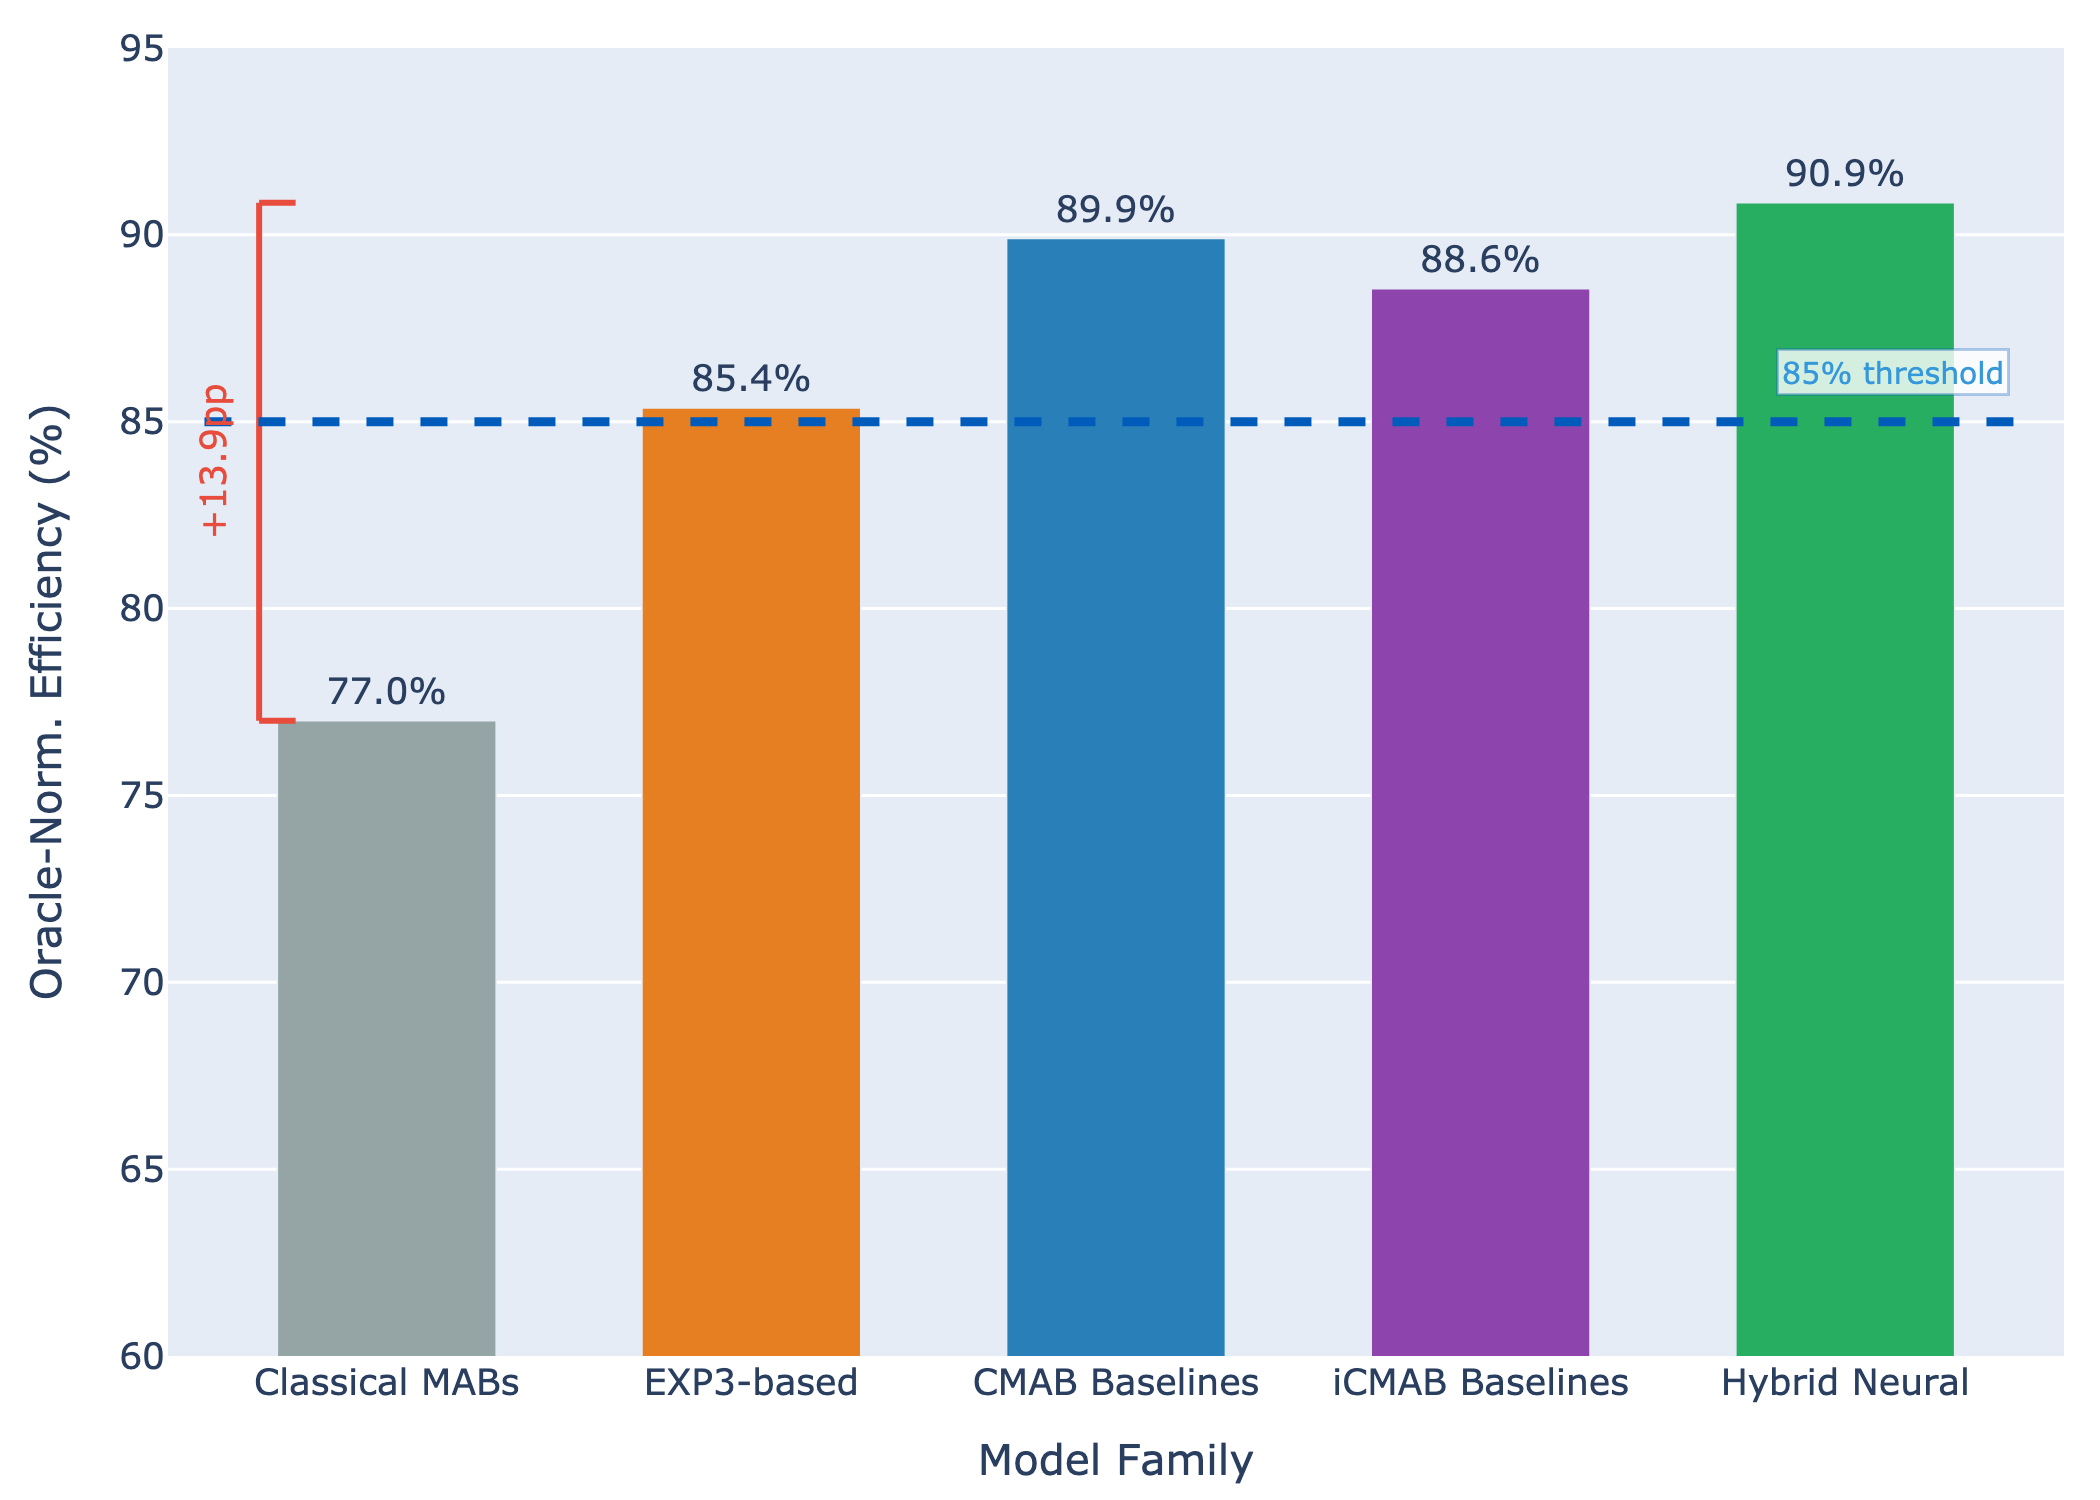
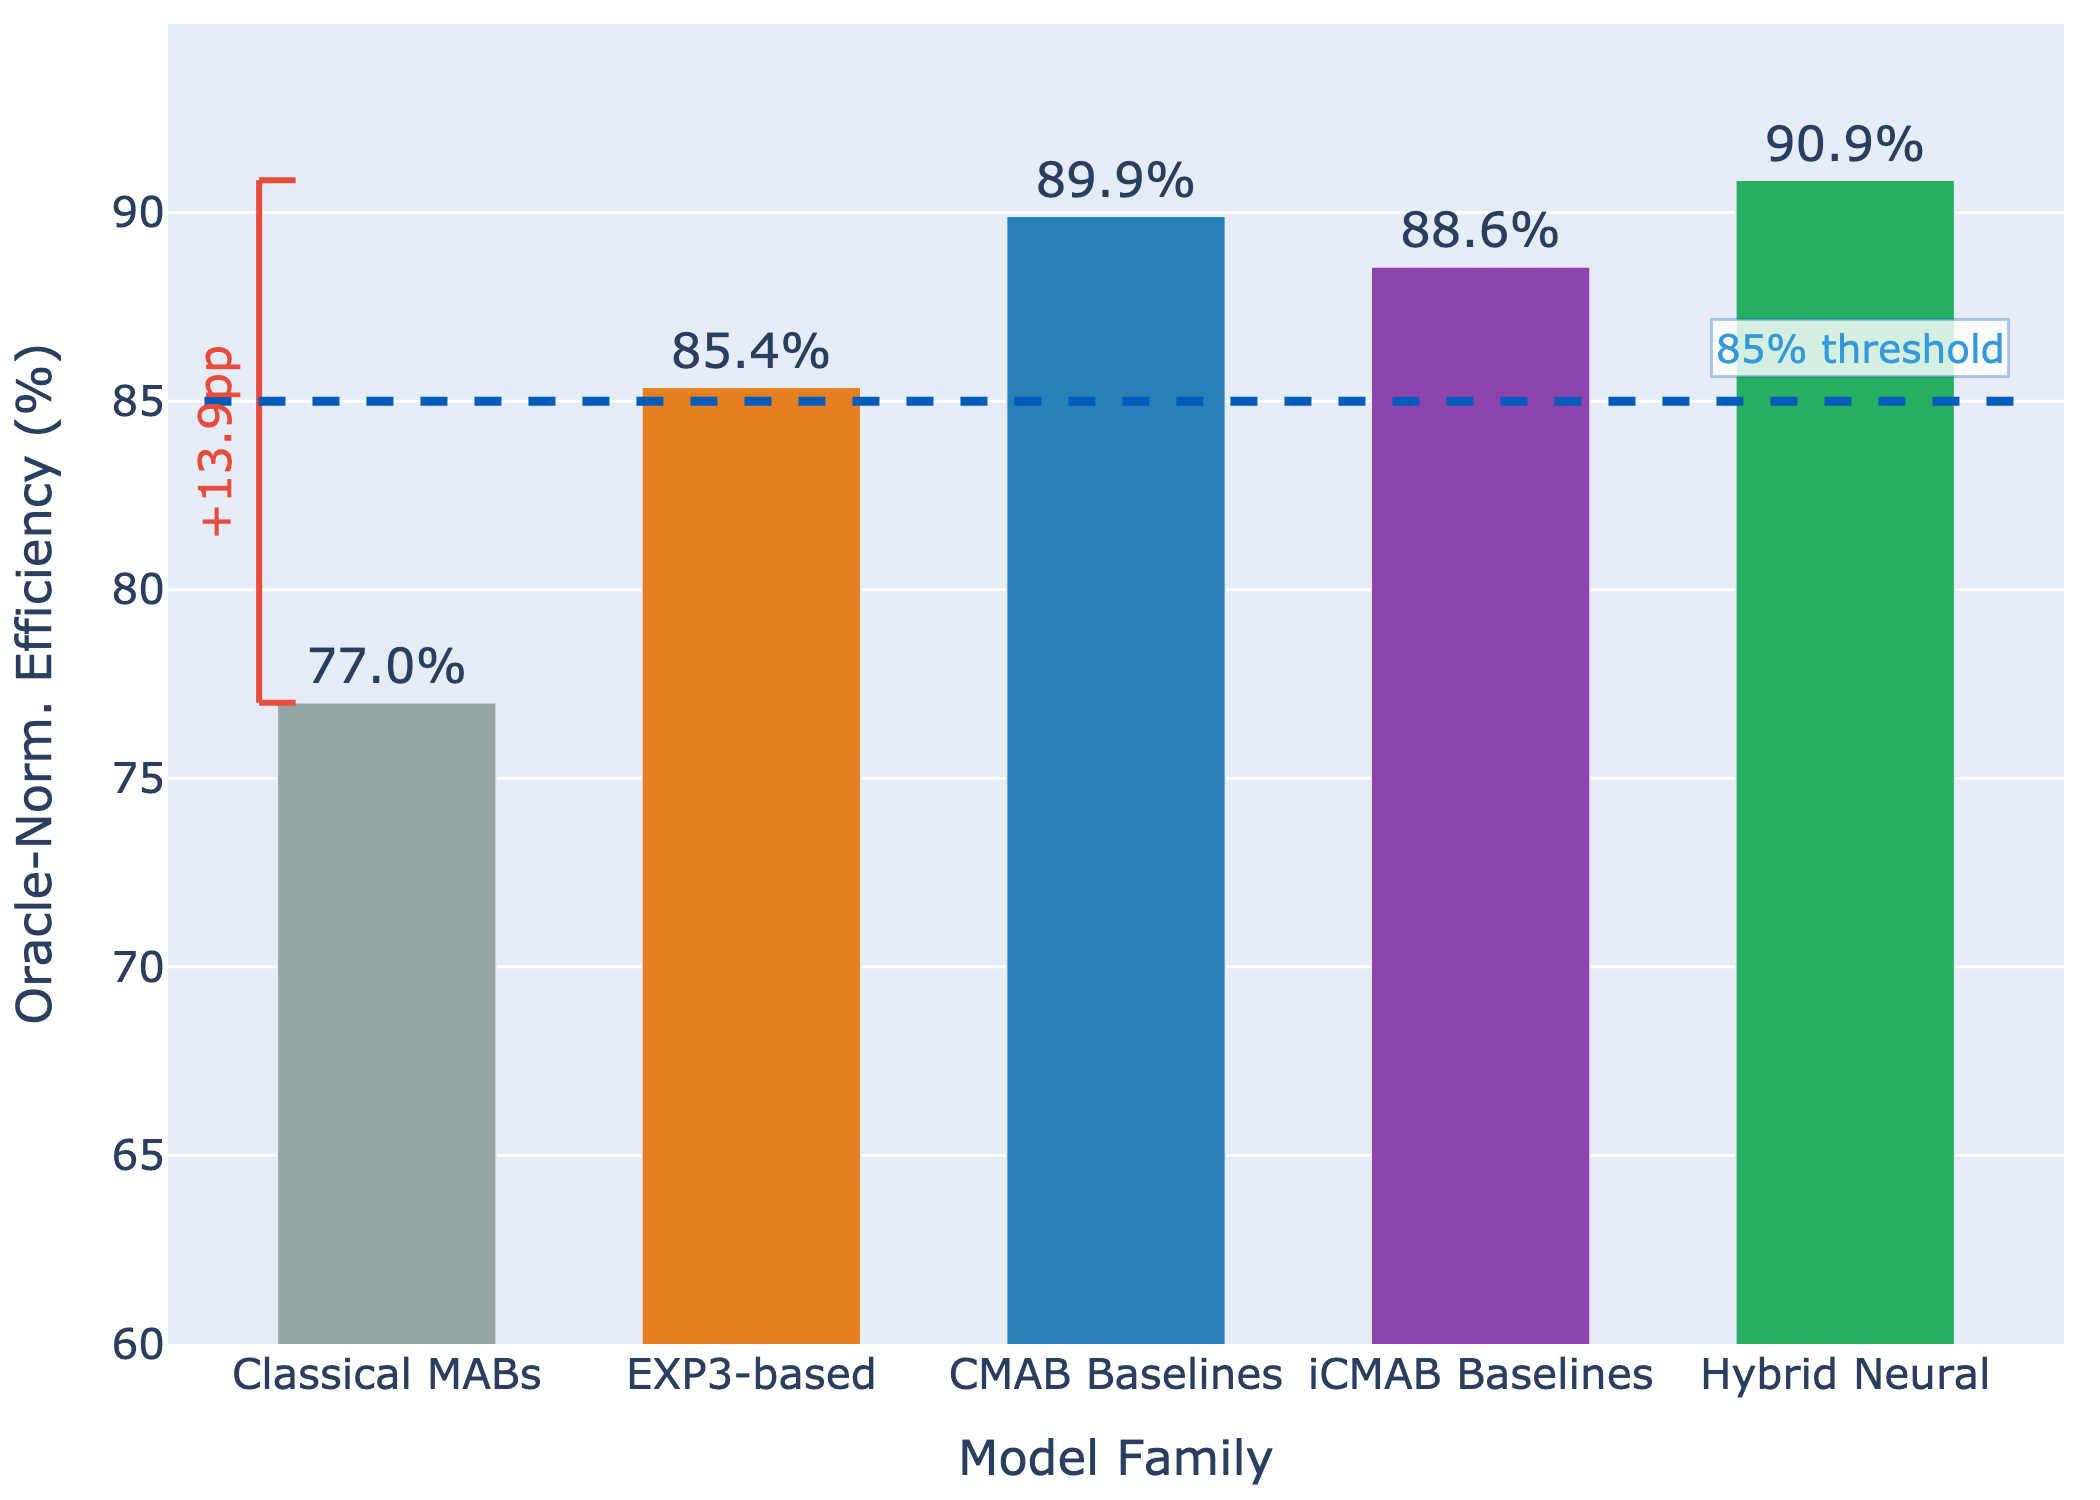
Increase page-9 figure text sizes

diff --git a/figures/icnp-exported-assets/build_G8_G9.py b/figures/icnp-exported-assets/build_G8_G9.py
@@ -482,19 +482,20 @@ def draw_cross_testbed_panel(ax, *, include_panel_label=True):
                        zorder=6,alpha=0.95,edgecolors='white',lw=0.9)
             if v == max(vals):
                 ax.text(ji, v + 1.05, f'best {v:.1f}%', ha='center',
-                        fontsize=8.0, color=col, fontweight='bold',
+                        fontsize=9.6, color=col, fontweight='bold',
                         bbox=dict(boxstyle='round,pad=0.16', facecolor='white', alpha=0.82, edgecolor='none'))
         ax.text(ji,max(vals)+2.65,f'gap {100-max(vals):.1f}pp',ha='center',
-                fontsize=7.8,color=col,fontweight='bold')
+                fontsize=9.2,color=col,fontweight='bold')
     ax.axhline(85,color=C['THRESH'],ls='--',lw=1.2,alpha=0.7)
-    ax.text(3.45,85.45,'85% internal target',ha='right',va='bottom',fontsize=7.4,color=C['THRESH'])
-    ax.set_xticks(range(4)); ax.set_xticklabels(tl,fontsize=7.8)
-    ax.set_ylabel('Oracle-Norm. Efficiency (%)')
+    ax.text(3.45,85.45,'85% internal target',ha='right',va='bottom',fontsize=8.8,color=C['THRESH'])
+    ax.set_xticks(range(4)); ax.set_xticklabels(tl,fontsize=9.0)
+    ax.set_ylabel('Oracle-Norm. Efficiency (%)', fontsize=10.2)
+    ax.tick_params(axis='y', labelsize=9.0)
     ax.set_ylim(39,88)
     ax.set_facecolor('#f9f9f9')
     for mk,mn in zip(amk9,aln9):
         ax.scatter([],[],marker=mk,color='#555',s=42,label=mn[:12])
-    ax.legend(loc='lower left',ncol=2,frameon=True,framealpha=0.88,fontsize=7.0)
+    ax.legend(loc='lower left',ncol=2,frameon=True,framealpha=0.88,fontsize=8.2)
     if include_panel_label:
         panel_label(ax,'I','Cross-Testbed Efficiency & Oracle Gap (Std. 4K/2K/5R)')
 
@@ -884,11 +885,11 @@ def build_threat_heatmap_panel():
 
 def build_cross_testbed_panel():
     base_style()
-    fig, ax = plt.subplots(figsize=(7.64, 4.545), dpi=200)
+    fig, ax = plt.subplots(figsize=(8.0, 4.9), dpi=240)
     fig.patch.set_facecolor('white')
     draw_cross_testbed_panel(ax, include_panel_label=False)
     fig.subplots_adjust(left=0.08, right=0.98, top=0.97, bottom=0.22)
-    fig.savefig(OUT_PANEL_I, dpi=200, facecolor='white')
+    fig.savefig(OUT_PANEL_I, dpi=240, facecolor='white')
     plt.close(fig)
     print(f"Wrote {OUT_PANEL_I}")
 

diff --git a/figures/icnp_figures/icnp_graphs.py b/figures/icnp_figures/icnp_graphs.py
@@ -191,6 +191,7 @@ fig3.add_trace(go.Bar(
     marker_color=colors_fam,
     text=[f"{v:.1f}%" for v in best_effs],
     textposition='outside', width=0.6,
+    textfont=dict(size=16),
 ))
 
 # Bracket: classical → hybrid gap
@@ -201,14 +202,14 @@ fig3.add_shape(type='line', x0=-0.35, x1=-0.25, y0=77.0,  y1=77.0,
 fig3.add_shape(type='line', x0=-0.35, x1=-0.25, y0=90.86, y1=90.86,
                line=dict(color='#e74c3c', width=2))
 fig3.add_annotation(x=-0.48, y=83.9, text="+13.9pp",
-                    showarrow=False, font=dict(color='#e74c3c', size=12),
+                    showarrow=False, font=dict(color='#e74c3c', size=15),
                     textangle=-90)
 
 # 85% threshold
 fig3.add_shape(type='line', x0=-0.5, x1=4.5, y0=85, y1=85,
                line=dict(color='#005BBB', width=3, dash='dash'))
 fig3.add_annotation(x=4.45, y=85.65, text="85% threshold",
-                    showarrow=False, font=dict(color='#3498db', size=10),
+                    showarrow=False, font=dict(color='#3498db', size=13),
                     xanchor='right',
                     yanchor='bottom',
                     bgcolor='rgba(255,255,255,0.80)',
@@ -219,9 +220,10 @@ fig3.update_layout(
     margin=dict(t=8, r=12, b=34, l=56, pad=0),
     showlegend=False,
     xaxis_range=[-0.6, 4.6],
+    font=dict(size=14),
 )
-fig3.update_xaxes(title_text="Model Family")
-fig3.update_yaxes(title_text="Oracle-Norm. Efficiency (%)", range=[60, 95])
+fig3.update_xaxes(title_text="Model Family", title_font=dict(size=16), tickfont=dict(size=14))
+fig3.update_yaxes(title_text="Oracle-Norm. Efficiency (%)", range=[60, 95], title_font=dict(size=16), tickfont=dict(size=14))
 save_plotly_figure(fig3, "icnp_graphs/G3_family_summary.png")
 print("✓ G3 saved")
 
